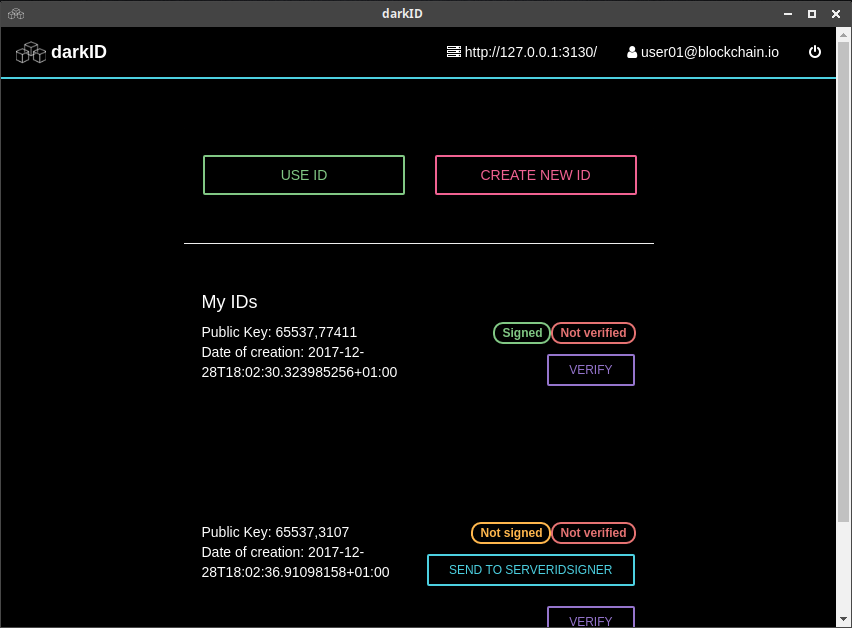
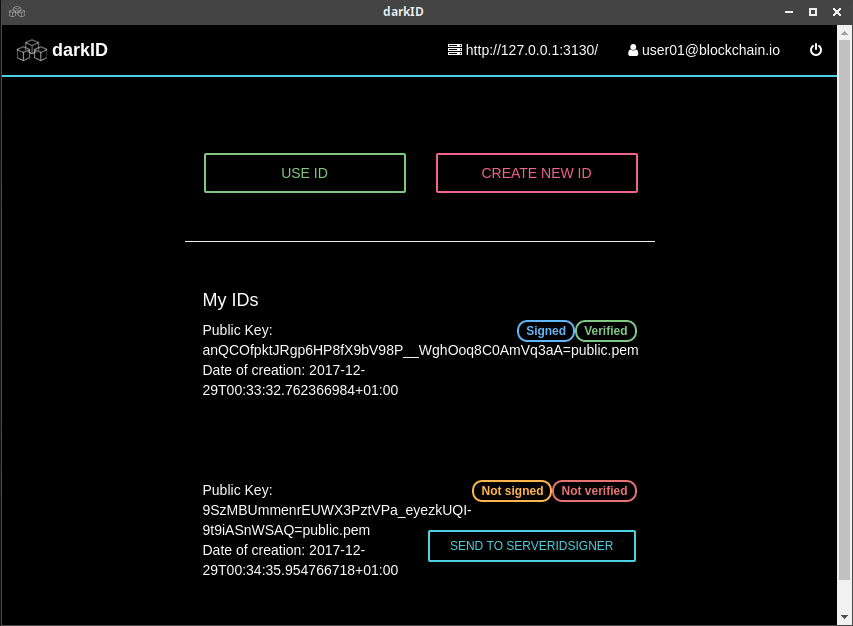
id blindsign and verificated working

diff --git a/clientApp/GUI/views/main/main.html b/clientApp/GUI/views/main/main.html
@@ -25,7 +25,7 @@
                     <h4 class="card-title">
                         My IDs
                     </h4>
-                    <div class="row" style="height:200px;" ng-repeat="id in ids">
+                    <div class="row" style="height:160px;" ng-repeat="id in ids">
                         <div class="col-sm-6">
                             Public Key: {{id.pubK}}
                             <!--<br> Private Key: {{id.privK}}-->
@@ -40,11 +40,12 @@
                                 <span class="badge c_o_green300" ng-show="id.verified">Verified</span>
                             </div>
                             <div class="pull-right">
-                                <span class="badge c_o_orange300" ng-show="!id.pubKSigned">Not signed</span>
-                                <span class="badge c_o_green300" ng-show="id.pubKSigned">Signed</span>
+                                <span class="badge c_o_orange300" ng-show="!id.unblindedsig">Not signed</span>
+                                <span class="badge c_o_blue300" ng-show="id.unblindedsig">Signed</span>
                             </div>
-                            <div ng-click="blindAndSendToSign(id.pubK)" ng-show="!id.pubKSigned" class="btn btn-sm btn-raised c_o_cyan300 pull-right">Send to serverIDsigner</div>
-                            <div ng-click="verify(id.pubK)"  ng-show="!id.verified"class="btn btn-sm btn-raised c_o_deepPurple300 pull-right">Verify</div>
+                            <br><br>
+                            <div ng-click="blindAndSendToSign(id.id)" ng-show="!id.unblindedsig" class="btn btn-sm btn-raised c_o_cyan300 pull-right">Send to serverIDsigner</div>
+                            <!--<div ng-click="verify(id.id)"  ng-show="!id.verified"class="btn btn-sm btn-raised c_o_deepPurple300 pull-right">Verify</div>-->
                         </div>
                     </div>
                 </div>

diff --git a/clientApp/GUI/views/main/main.js b/clientApp/GUI/views/main/main.js
@@ -39,8 +39,8 @@ angular.module('app.main', ['ngRoute'])
                 });
         };
 
-        $scope.blindAndSendToSign = function(pubK) {
-            $http.get(clientapi + 'blindandsendtosign/' + pubK)
+        $scope.blindAndSendToSign = function(id) {
+            $http.get(clientapi + 'blindandsendtosign/' + id)
                 .then(function(data) {
                     console.log('data success');
                     console.log(data);
@@ -50,8 +50,8 @@ angular.module('app.main', ['ngRoute'])
                     console.log('data error');
                 });
         };
-        $scope.verify = function(pubK) {
-            $http.get(clientapi + 'verify/' + pubK)
+        $scope.verify = function(id) {
+            $http.get(clientapi + 'verify/' + id)
                 .then(function(data) {
                     console.log('data success');
                     console.log(data);

diff --git a/clientApp/keys.go b/clientApp/keys.go
@@ -6,18 +6,67 @@ import (
 	"encoding/asn1"
 	"encoding/json"
 	"encoding/pem"
+	"errors"
+	"fmt"
 	"io/ioutil"
 	"os"
 	"time"
+
+	"github.com/fatih/color"
 )
 
 type Key struct {
-	ID       string    `json:"id"`
-	PrivK    string    `json:"privK"` //path of the PrivK file
-	PubK     string    `json:"pubK"`  //path of the PubK file
-	Date     time.Time `json:"date"`
-	Verified bool      `json:"verified"`
-	Signed   string    `json:"signed"`
+	ID             string         `json:"id"`
+	PrivK          string         `json:"privK"` //path of the PrivK file
+	PubK           string         `json:"pubK"`  //path of the PubK file
+	Date           time.Time      `json:"date"`
+	Hashed         []byte         `json:"hashed"`
+	UnblindedSig   []byte         `json:"unblindedsig"`
+	Verified       bool           `json:"verified"`
+	ServerVerifier *rsa.PublicKey `json:"serververifier"`
+}
+
+func ExportRsaPrivateKeyAsPemStr(privkey *rsa.PrivateKey) string {
+	privkey_bytes := x509.MarshalPKCS1PrivateKey(privkey)
+	privkey_pem := pem.EncodeToMemory(
+		&pem.Block{
+			Type:  "RSA PRIVATE KEY",
+			Bytes: privkey_bytes,
+		},
+	)
+	return string(privkey_pem)
+}
+
+func ParseRsaPrivateKeyFromPemStr(privPEM string) (*rsa.PrivateKey, error) {
+	block, _ := pem.Decode([]byte(privPEM))
+	if block == nil {
+		return nil, errors.New("failed to parse PEM block containing the key")
+	}
+	priv, err := x509.ParsePKCS1PrivateKey(block.Bytes)
+	if err != nil {
+		return nil, err
+	}
+	return priv, nil
+}
+
+func ExportRsaPublicKeyAsPemStr(pubkey rsa.PublicKey) (string, error) {
+	asn1Bytes, err := asn1.Marshal(pubkey)
+	check(err)
+	pubkey_pem := pem.EncodeToMemory(
+		&pem.Block{
+			Type:  "PUBLIC KEY",
+			Bytes: asn1Bytes,
+		},
+	)
+	color.Red("pubkey_pem")
+	fmt.Println(pubkey_pem)
+	return string(pubkey_pem), nil
+}
+
+func ParseRsaPublicKeyFromPemStr(pubPEM string) (pub rsa.PublicKey, err error) {
+	pemBlock, _ := pem.Decode([]byte(pubPEM))
+	_, err = asn1.Unmarshal(pemBlock.Bytes, &pub)
+	return
 }
 
 func savePEMKey(fileName string, key *rsa.PrivateKey) {
@@ -49,10 +98,20 @@ func savePublicPEMKey(fileName string, pubkey rsa.PublicKey) {
 	err = pem.Encode(pemfile, pemkey)
 	check(err)
 }
-func openPEMKey(path string) (key rsa.PrivateKey) {
+func openPEMKey(path string) (key *rsa.PrivateKey, err error) {
+	b, err := ioutil.ReadFile(path)
+	if err != nil {
+		fmt.Print(err)
+	}
+	key, err = ParseRsaPrivateKeyFromPemStr(string(b))
 	return
 }
-func openPublicPEMKey(path string) (key rsa.PublicKey) {
+func openPublicPEMKey(path string) (key rsa.PublicKey, err error) {
+	b, err := ioutil.ReadFile(path)
+	if err != nil {
+		fmt.Print(err)
+	}
+	key, err = ParseRsaPublicKeyFromPemStr(string(b))
 	return
 }
 func readKeys() []Key {
@@ -72,6 +131,16 @@ func saveKeys(keys []Key) {
 	check(err)
 	err = ioutil.WriteFile(keysDir+"/keys.json", jsonKeys, 0644)
 	check(err)
+}
+func saveKey(k Key) {
+	fmt.Println(k)
+	keys := readKeys()
+	for i, key := range keys {
+		if key.ID == k.ID {
+			keys[i] = k
+		}
+	}
+	saveKeys(keys)
 }
 func getKeyByKeyID(keyID string) (k Key) {
 	keys := readKeys()

diff --git a/clientApp/clientApp.go b/clientApp/clientApp.go
@@ -12,6 +12,7 @@ import (
 
 	"github.com/cryptoballot/fdh"
 	"github.com/cryptoballot/rsablind"
+	"github.com/fatih/color"
 )
 
 func IDs() []Key {
@@ -51,18 +52,33 @@ type SignResponse struct {
 	PubK rsa.PublicKey `json:"pubK"`
 }
 
-func BlindAndSendToSign(keyID string) []byte {
+func BlindAndSendToSign(keyID string) []Key {
 	//get the key
 	key := getKeyByKeyID(keyID)
 	//privK := openPEMKey(key.PrivK)
-	pubK := openPublicPEMKey(key.PubK)
+	pubK, err := openPublicPEMKey(keysDir + "/" + key.PubK)
+	check(err)
 
-	//TODO pubK to string
-	m := []byte("pubK") //convert pubK to array of bytes
+	//pubK to string
+	m, err := ExportRsaPublicKeyAsPemStr(pubK)
+	check(err)
+	mB := []byte(m)
+
+	//get serverPubK
+	var serverPubK *rsa.PublicKey
+	res, err := http.Get(config.Server)
+	check(err)
+	decoder := json.NewDecoder(res.Body)
+	err = decoder.Decode(&serverPubK)
+	if err != nil {
+		panic(err)
+	}
+	defer res.Body.Close()
+
 	//blind the hashed message
 	// We do a SHA256 full-domain-hash expanded to 1536 bits (3/4 the key size)
-	hashed := fdh.Sum(crypto.SHA256, hashize, m)
-	blinded, unblinder, err := rsablind.Blind(&pubK, hashed)
+	hashed := fdh.Sum(crypto.SHA256, hashize, mB)
+	blinded, unblinder, err := rsablind.Blind(serverPubK, hashed)
 	if err != nil {
 		panic(err)
 	}
@@ -71,10 +87,10 @@ func BlindAndSendToSign(keyID string) []byte {
 	//send blinded to serverIDsigner
 	body := new(bytes.Buffer)
 	json.NewEncoder(body).Encode(askBlindSign)
-	res, err := http.Post(config.Server+"blindsign", "application/json", body)
+	res, err = http.Post(config.Server+"blindsign", "application/json", body)
 	check(err)
 	var signResponse SignResponse
-	decoder := json.NewDecoder(res.Body)
+	decoder = json.NewDecoder(res.Body)
 	err = decoder.Decode(&signResponse)
 	if err != nil {
 		panic(err)
@@ -82,13 +98,26 @@ func BlindAndSendToSign(keyID string) []byte {
 	defer res.Body.Close()
 
 	sig := signResponse.Sig
-	serverPubK := signResponse.PubK
+	//serverPubK := signResponse.PubK
 
 	//unblind the signedblind
-	unblindedSig := rsablind.Unblind(&serverPubK, sig, unblinder)
+	unblindedSig := rsablind.Unblind(serverPubK, sig, unblinder)
+	color.Green("unblindedSig")
 	fmt.Println(unblindedSig)
 
-	return unblindedSig
+	// Verify the original hashed message against the unblinded signature
+	if err := rsablind.VerifyBlindSignature(serverPubK, hashed, unblindedSig); err != nil {
+		fmt.Println(err)
+	} else {
+		color.Green("blind signature verified")
+		key.Verified = true
+	}
+	key.UnblindedSig = unblindedSig
+	key.Hashed = hashed
+	key.ServerVerifier = serverPubK
+	saveKey(key)
+	keys := readKeys()
+	return keys
 }
 
 func Verify(packPubK string) {

diff --git a/serverIDsigner/userRESTFunctions.go b/serverIDsigner/userRESTFunctions.go
@@ -20,9 +20,8 @@ type User struct {
 }
 
 func Index(w http.ResponseWriter, r *http.Request) {
-	//TODO return the public key, to allow others verifign signed strings by this server
-
-	jResp, err := json.Marshal("a")
+	// return server public key, to allow others verifign signed strings by this server
+	jResp, err := json.Marshal(serverKey.PublicKey)
 	if err != nil {
 		panic(err)
 	}

diff --git a/clientApp/clientAppRESTFunctions.go b/clientApp/clientAppRESTFunctions.go
@@ -40,9 +40,9 @@ func GetBlindAndSendToSign(w http.ResponseWriter, r *http.Request) {
 	idKey := vars["idKey"]
 	color.Green(idKey)
 
-	unblindedSig := BlindAndSendToSign(idKey)
+	keys := BlindAndSendToSign(idKey)
 
-	jResp, err := json.Marshal(unblindedSig)
+	jResp, err := json.Marshal(keys)
 	check(err)
 	fmt.Fprintln(w, string(jResp))
 }
